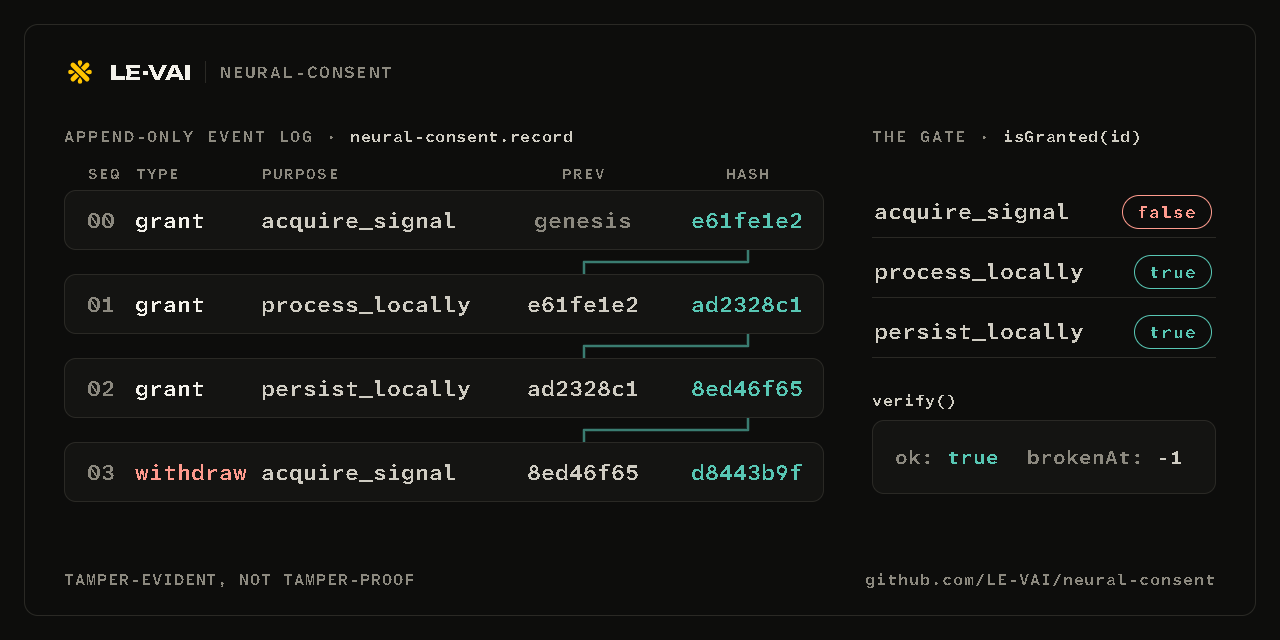
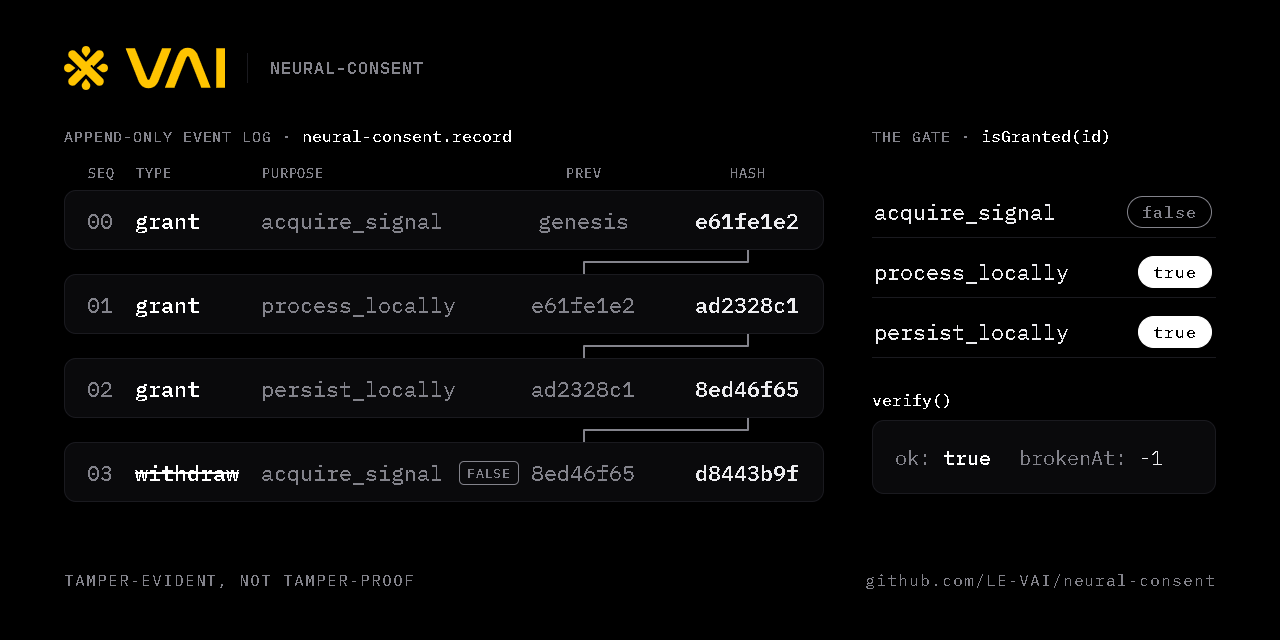
Hero loop and social card in VAI identity v2: black ground, Inter and IBM Plex Mono, the v2 lockup, yellow only on the signal (seam re-proven)

diff --git a/README.md b/README.md
@@ -4,7 +4,7 @@
 <p align="center">
   <picture>
     <source media="(prefers-reduced-motion: reduce)" srcset="docs/media/hero-poster.png">
-    <img src="docs/media/hero-loop.webp" width="800" alt="A four-event consent log. Each row's prev value equals the hash of the row above it, joined by a teal link. A teal dot travels each link from top to bottom, lighting each matched row and its prev value in turn, ending at a red withdraw of acquire_signal. The gate panel shows isGranted false for acquire_signal and true for process_locally and persist_locally, and verify() lights up with ok: true, brokenAt: -1.">
+    <img src="docs/media/hero-loop.webp" width="800" alt="A four-event consent log. Each row's prev value equals the hash of the row above it, joined by a link. A yellow dot travels each link from top to bottom, lighting each matched row and its prev value in turn, ending at a struck-through withdraw of acquire_signal. The gate panel shows isGranted false for acquire_signal and true for process_locally and persist_locally, and verify() lights up with ok: true, brokenAt: -1.">
   </picture>
 </p>
 <p align="center"><sub>A 5-second loop. It plays once and rests, and shows a still frame if you prefer reduced motion. <a href="https://le-vai.github.io/LE-VAI/loops/#neural-consent">Watch it on repeat</a>.</sub></p>
